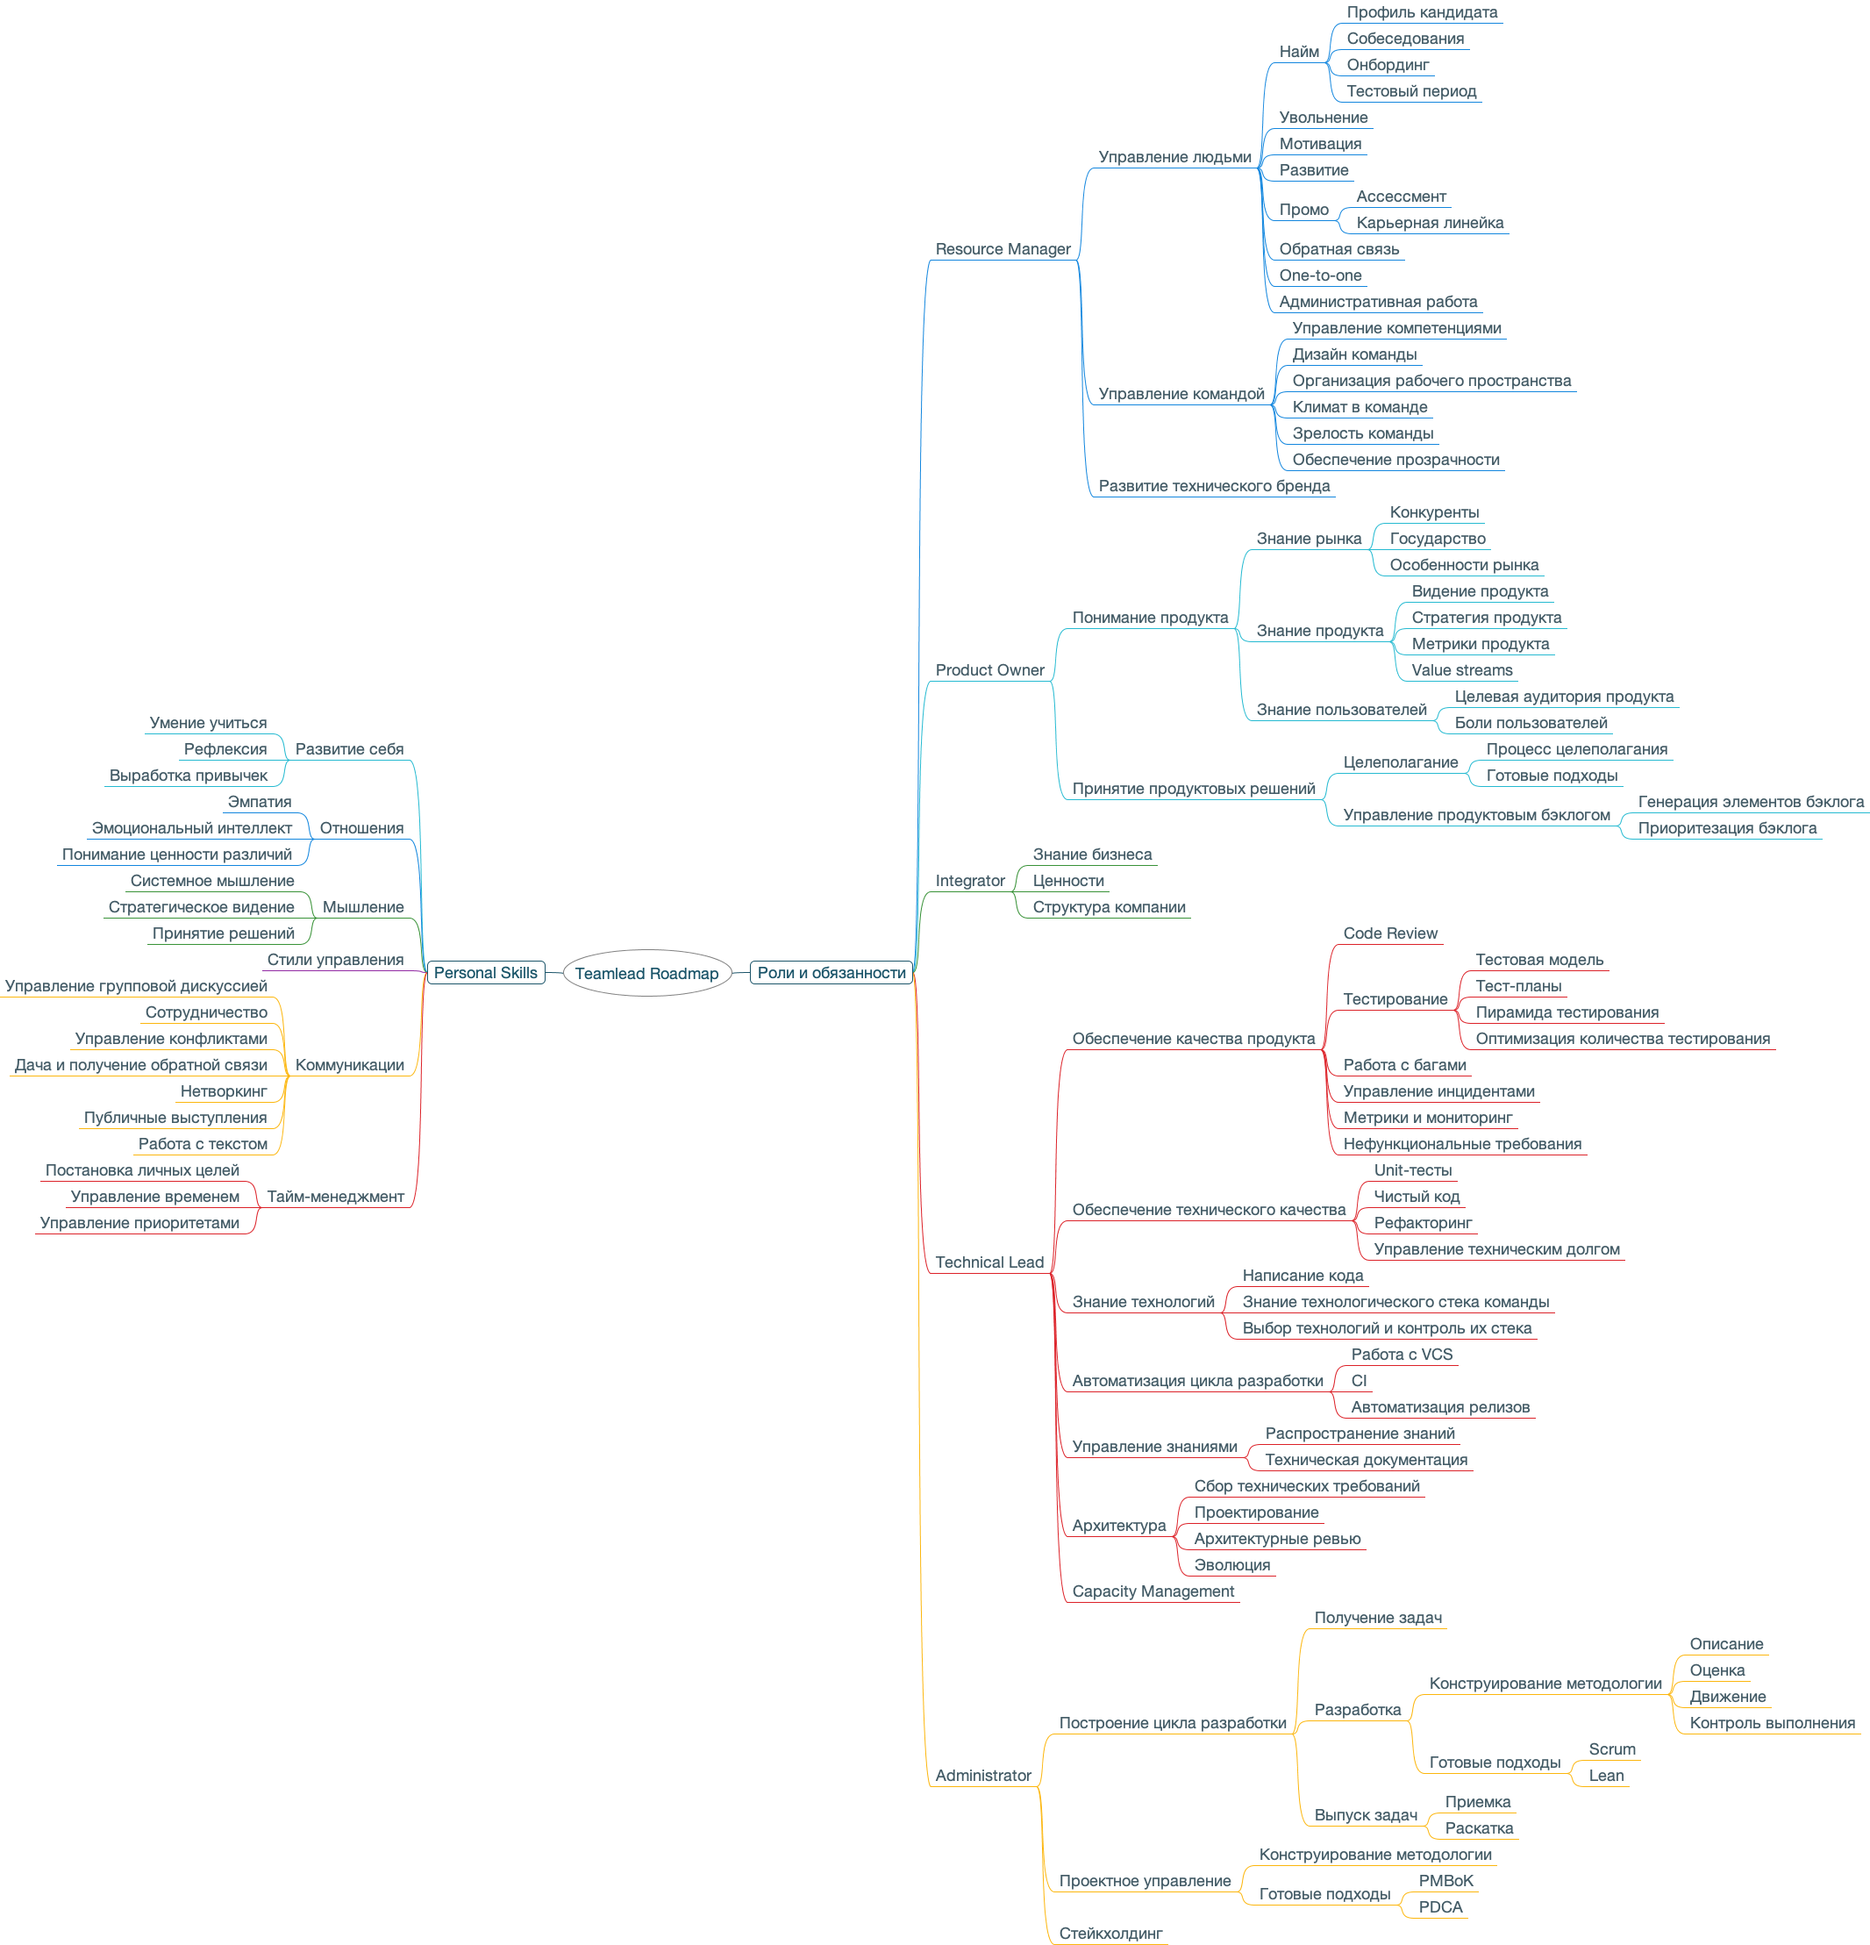
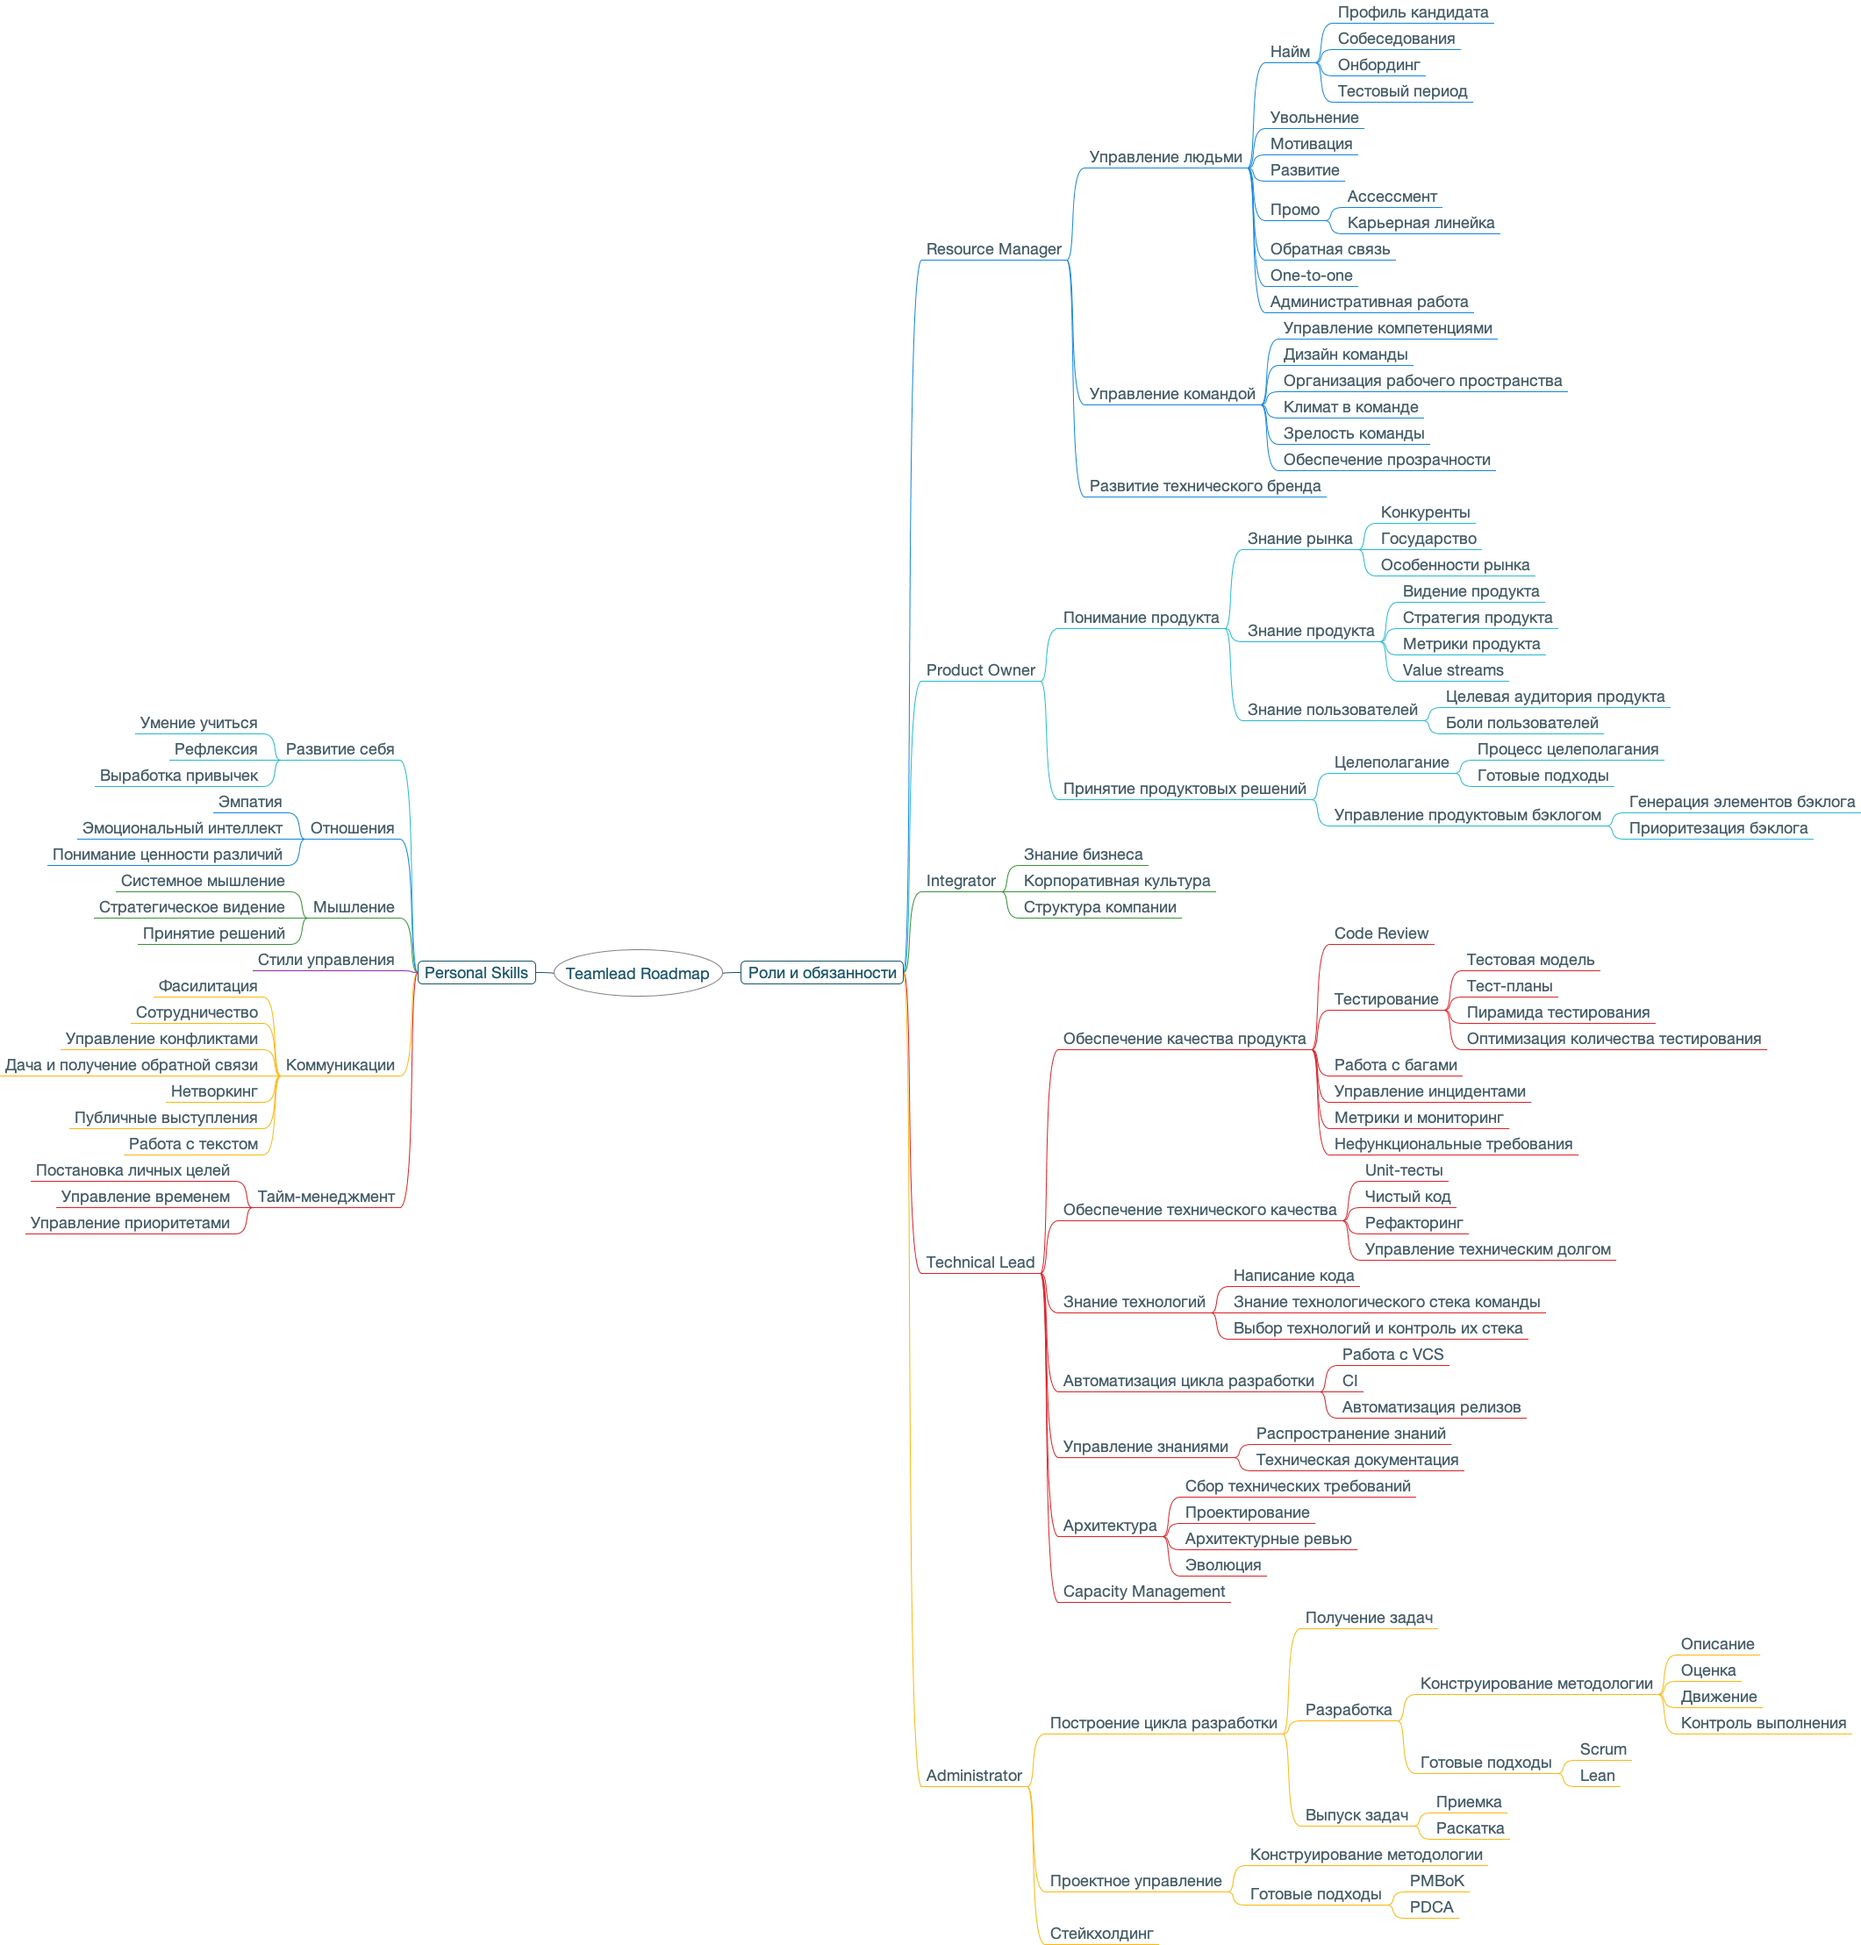
Обновил структуру роадмапа

diff --git a/roadmap.mm b/roadmap.mm
@@ -193,7 +193,7 @@
 <edge COLOR="#389237" WIDTH="1"/>
 <font NAME="Helvetica Neue" SIZE="18"/>
 </node>
-<node COLOR="#435b66" CREATED="1564322984028" ID="A8883E14-7ADC-4866-B950-80A1AC540F5D" MODIFIED="1564323588235" STYLE="fork" TEXT="&#x426;&#x435;&#x43d;&#x43d;&#x43e;&#x441;&#x442;&#x438;">
+<node COLOR="#435b66" CREATED="1564322984028" ID="A8883E14-7ADC-4866-B950-80A1AC540F5D" MODIFIED="1564669103582" STYLE="fork" TEXT="&#x41a;&#x43e;&#x440;&#x43f;&#x43e;&#x440;&#x430;&#x442;&#x438;&#x432;&#x43d;&#x430;&#x44f; &#x43a;&#x443;&#x43b;&#x44c;&#x442;&#x443;&#x440;&#x430;">
 <edge COLOR="#389237" WIDTH="1"/>
 <font NAME="Helvetica Neue" SIZE="18"/>
 </node>
@@ -481,7 +481,7 @@
 <node COLOR="#435b66" CREATED="1564322984039" ID="2D4F18ED-933A-4E7C-8A59-0F0B64796D1B" MODIFIED="1564324058205" STYLE="fork" TEXT="&#x41a;&#x43e;&#x43c;&#x43c;&#x443;&#x43d;&#x438;&#x43a;&#x430;&#x446;&#x438;&#x438;">
 <edge COLOR="#fcb60d" WIDTH="1"/>
 <font NAME="Helvetica Neue" SIZE="18"/>
-<node COLOR="#435b66" CREATED="1564322984039" ID="F10BCED0-90DC-41D1-B65B-31DC32238157" MODIFIED="1564324058205" STYLE="fork" TEXT="&#x423;&#x43f;&#x440;&#x430;&#x432;&#x43b;&#x435;&#x43d;&#x438;&#x435; &#x433;&#x440;&#x443;&#x43f;&#x43f;&#x43e;&#x432;&#x43e;&#x439; &#x434;&#x438;&#x441;&#x43a;&#x443;&#x441;&#x441;&#x438;&#x435;&#x439;">
+<node COLOR="#435b66" CREATED="1564322984039" ID="F10BCED0-90DC-41D1-B65B-31DC32238157" MODIFIED="1564669195996" STYLE="fork" TEXT="&#x424;&#x430;&#x441;&#x438;&#x43b;&#x438;&#x442;&#x430;&#x446;&#x438;&#x44f;">
 <edge COLOR="#fcb60d" WIDTH="1"/>
 <font NAME="Helvetica Neue" SIZE="18"/>
 </node>

diff --git a/README.md b/README.md
@@ -114,11 +114,11 @@
         - Готовые подходы
     - Управление продуктовым бэклогом
         - Генерация элементов бэклога
-        - Приоритизация бэклога
+        - Приоритезация бэклога
 
 ### Integrator
 - [Знание бизнеса](skills/integrator/business-knowledge.md)
-- Ценности
+- [Корпоративная культура](skills/integrator/corporate-culture.md)
 - Структура компании
 
 ### Technical Lead
@@ -198,7 +198,7 @@
 ### Стили управления
 
 ### Коммуникации
-- [Фасилитация (Управление групповой дискуссией)](skills/communications/facilitation.md)
+- [Фасилитация](skills/communications/facilitation.md)
 - Сотрудничество
 - Управление конфликтами
 - Дача и получение обратной связи
